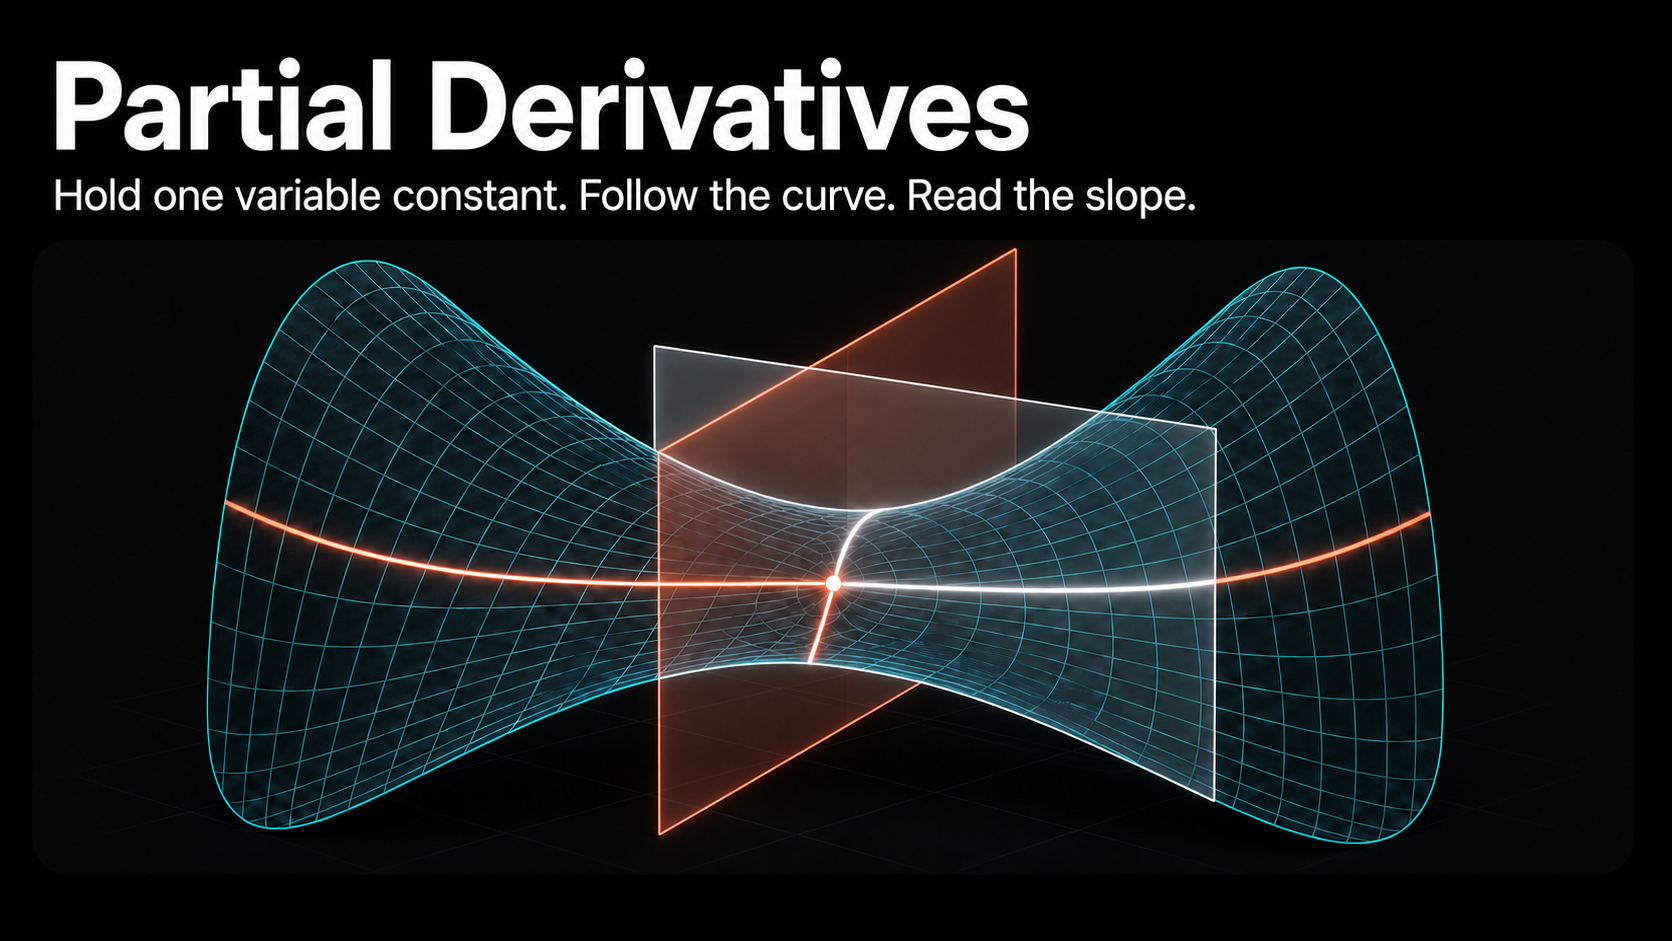
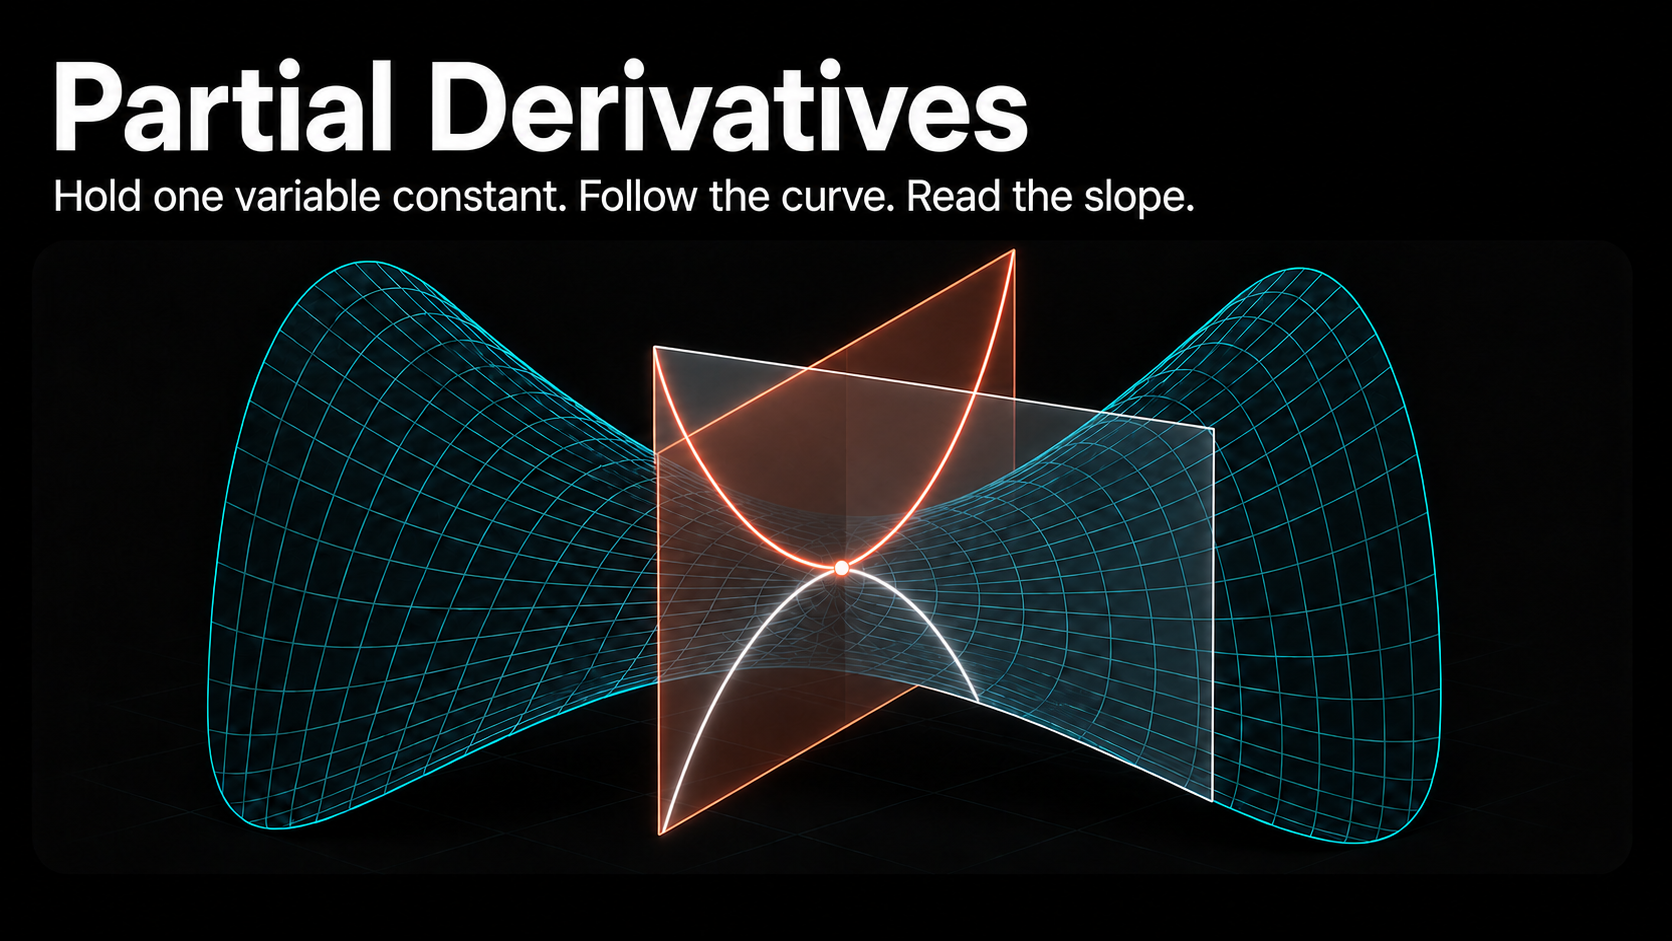
Correct derivative traces and correlation title

diff --git a/app/page.tsx b/app/page.tsx
@@ -88,7 +88,7 @@ const visualizations: Visualization[] = [
   },
   {
     slug: "convolution",
-    title: "Convolution Visualization",
+    title: "Correlation (aka \"Convolution\")",
     description: "Slide. Pointwise multiply. Sum. Repeat.",
     category: "Signal Processing",
     href: "https://drive.google.com/file/d/1170Cbv73a7XmUNXWXli-rCGe7KW_KXXF/view?usp=share_link",
